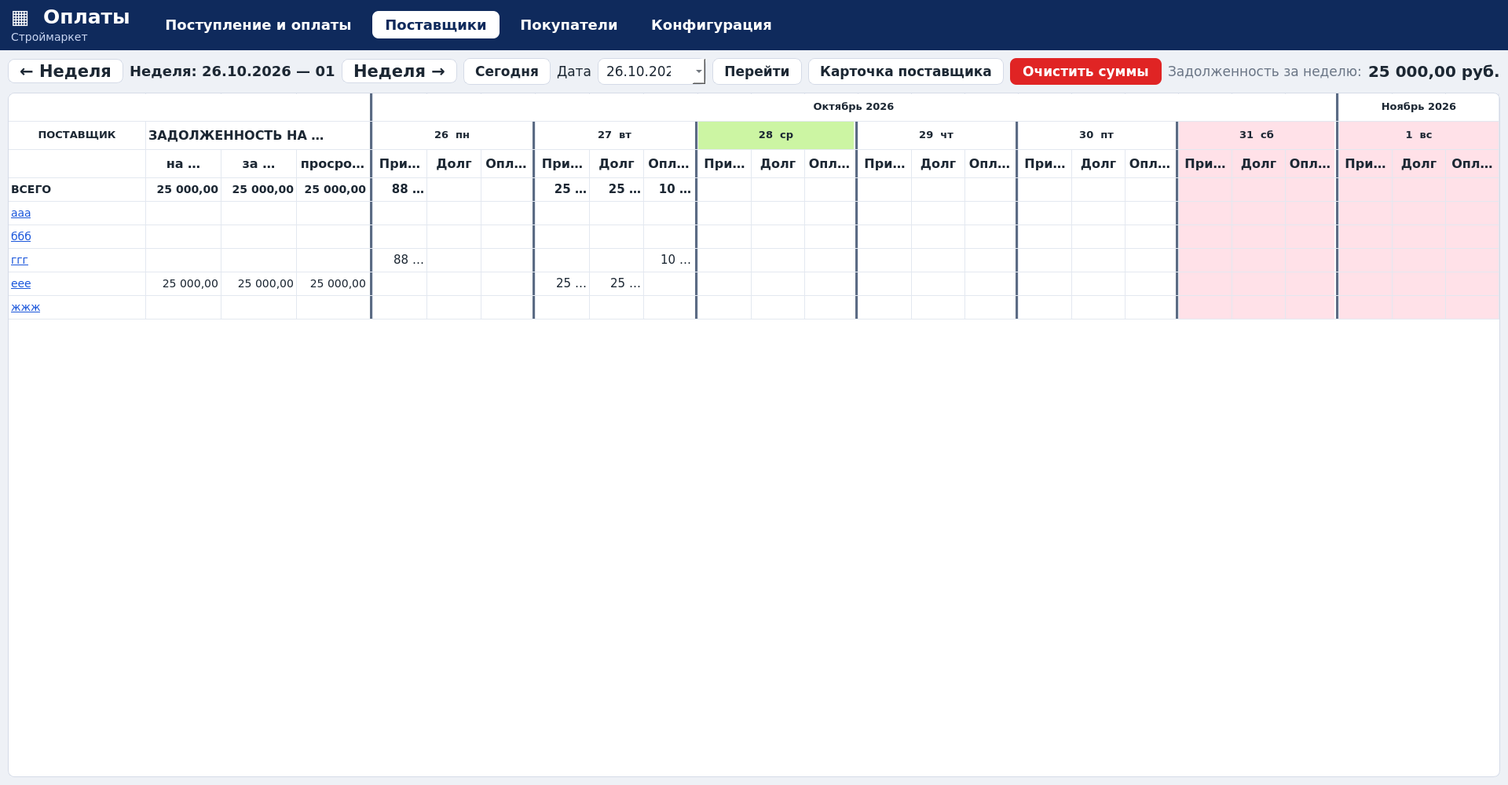
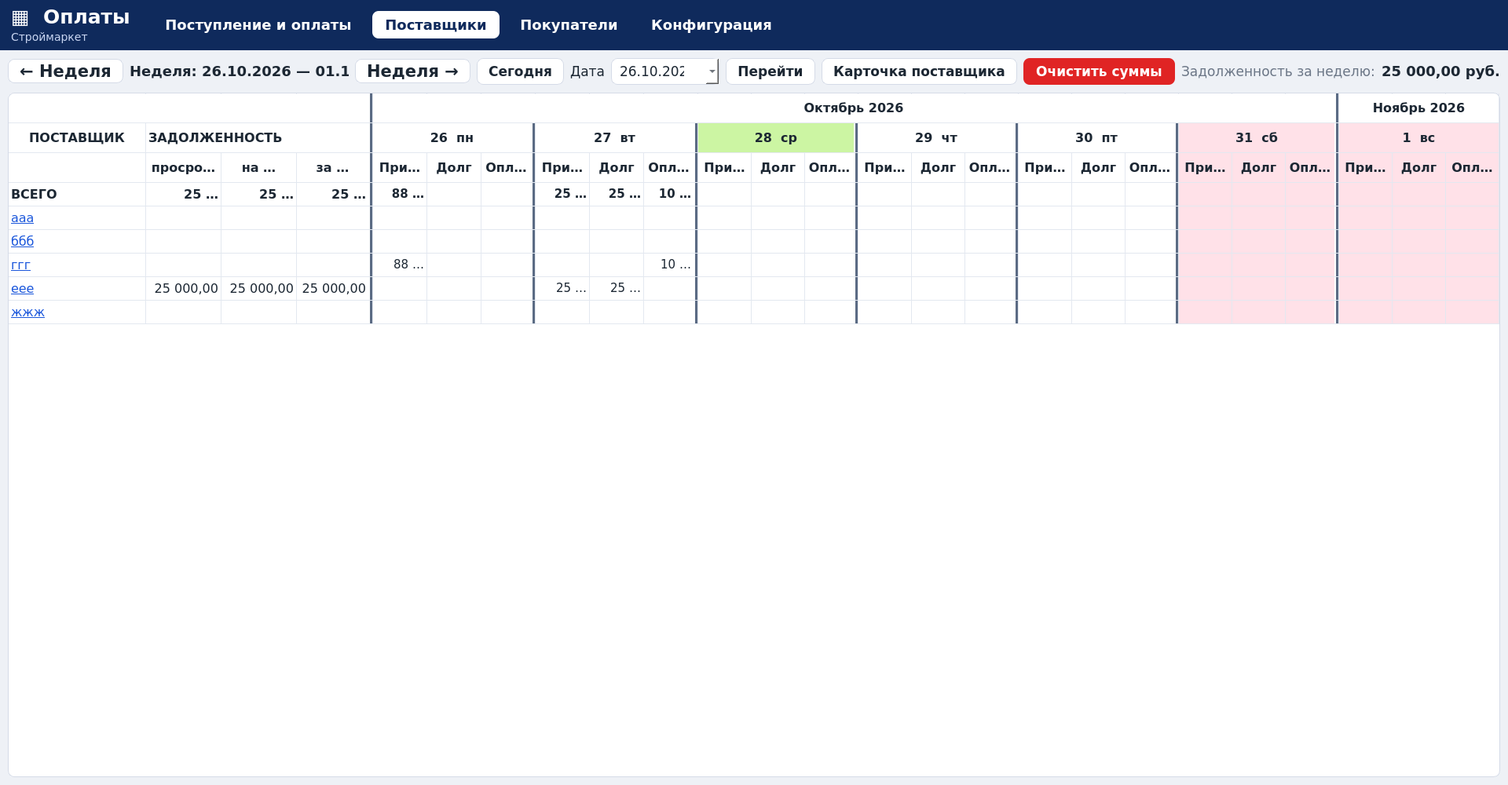
v0.16.0: единый шрифт в недельных таблицах, «просрочено» первым столбцом

diff --git a/src/oplata/views/week_view.py b/src/oplata/views/week_view.py
@@ -190,8 +190,8 @@ class WeekView(QWidget):
         # v0.15.0: у поставщиков две итоговые колонки — «ПРОСРОЧЕН.» и
         # «ЗАДОЛЖ.»; у покупателей столбца «просрочено» нет, остаётся
         # одна колонка — «ЗАДОЛЖ.» (подзаголовок «Всего»).
-        # v0.16.0: у поставщиков три итоговых столбца — «на сегодня»,
-        # «за неделю» и новый «просрочено» (срок оплаты уже прошёл).
+        # v0.16.0: у поставщиков три итоговых столбца — «просрочено»
+        # (срок оплаты уже прошёл), «на сегодня» и «за неделю».
         self.lead_columns = 3 if kind == "supplier" else 1
         self.column_count = 1 + self.lead_columns + 7 * self.columns_per_day
         self.separator_after_cols = {self.lead_columns} | {
@@ -223,11 +223,11 @@ class WeekView(QWidget):
         root.addLayout(self._build_toolbar())
 
         self.table = QTableWidget()
-        # В недельной таблице 20+ колонок: базовый шрифт интерфейса
-        # (+30% по запросу v0.12.0) съедает место у дней, поэтому для
-        # самой таблицы берём промежуточный размер — названия и шапка
-        # крупнее прежнего, а суммы остаются читаемыми.
-        self.table.setStyleSheet(f"font-size:{styles.fs(11)}px")
+        # v0.16.0: единый шрифт для всей недельной таблицы — шапка,
+        # названия и ячейки одного размера (был разнобой 13/14/16 px).
+        # Суммы в днях всё равно подгоняет _fit_amount_font по ширине
+        # колонки, чтобы «88 888,88» влезало целиком.
+        self.table.setStyleSheet(f"font-size:{styles.fs(12)}px")
         self.table.horizontalHeader().setVisible(False)
         self.table.verticalHeader().setVisible(False)
         week_delegate = DaySeparatorDelegate(
@@ -305,14 +305,14 @@ class WeekView(QWidget):
             debt_title.setObjectName("Muted")
             bar.addWidget(debt_title)
             self.right_value_label = QLabel(fmt_money(ZERO))
-            self.right_value_label.setStyleSheet(f"font-weight:800;font-size:{styles.fs(15)}px")
+            self.right_value_label.setStyleSheet(f"font-weight:800;font-size:{styles.fs(14)}px")
             bar.addWidget(self.right_value_label)
         else:
             count_title = QLabel("Покупателей:")
             count_title.setObjectName("Muted")
             bar.addWidget(count_title)
             self.right_value_label = QLabel("0")
-            self.right_value_label.setStyleSheet(f"font-weight:800;font-size:{styles.fs(15)}px")
+            self.right_value_label.setStyleSheet(f"font-weight:800;font-size:{styles.fs(14)}px")
             bar.addWidget(self.right_value_label)
         return bar
 
@@ -581,10 +581,11 @@ class WeekView(QWidget):
                 total_week += week
                 total_late += late
                 if self.kind == "supplier":
-                    self._set_cell_text(row, 1, _money_text(overdue))
-                    self._set_cell_text(row, 2, _money_text(week))
-                    # v0.16.0: третий столбец — просроченный платёж.
-                    self._set_cell_text(row, 3, _money_text(late))
+                    # v0.16.0: порядок столбцов — «просрочено»,
+                    # «на сегодня», «за неделю».
+                    self._set_cell_text(row, 1, _money_text(late))
+                    self._set_cell_text(row, 2, _money_text(overdue))
+                    self._set_cell_text(row, 3, _money_text(week))
                 else:
                     # Покупатели: «Всего» = Реализация − Оплата (v0.15.0).
                     partner = self._partners[r]
@@ -602,9 +603,9 @@ class WeekView(QWidget):
                             _money_text(due_map.get(day, ZERO)),
                         )
             if self.kind == "supplier":
-                self._set_cell_text(TOTAL_ROW, 1, _money_text(total_overdue))
-                self._set_cell_text(TOTAL_ROW, 2, _money_text(total_week))
-                self._set_cell_text(TOTAL_ROW, 3, _money_text(total_late))
+                self._set_cell_text(TOTAL_ROW, 1, _money_text(total_late))
+                self._set_cell_text(TOTAL_ROW, 2, _money_text(total_overdue))
+                self._set_cell_text(TOTAL_ROW, 3, _money_text(total_week))
             else:
                 self._set_cell_text(TOTAL_ROW, 1, _money_text(total_customer))
             for i, day in enumerate(self._days):
@@ -664,7 +665,7 @@ class WeekView(QWidget):
         table.setColumnCount(self.column_count)
 
         for row in range(HEADER_ROWS):
-            table.setRowHeight(row, 36)  # шапка выше — шрифт увеличен
+            table.setRowHeight(row, 38)  # три строки шапки под общий шрифт
 
         def put(row, col, text, *, bg=None, bold=False, center=True,
                 editable=False, color=None, underline=False, size=None):
@@ -690,7 +691,7 @@ class WeekView(QWidget):
 
         def money_cell(row, col, text, **kwargs) -> QTableWidgetItem:
             """Ячейка суммы: правый край + шрифт, который потом подгонит _fit_*."""
-            cell = put(row, col, text, size=styles.fs(11), **kwargs)
+            cell = put(row, col, text, size=styles.fs(12), **kwargs)
             cell.setTextAlignment(
                 Qt.AlignmentFlag.AlignRight | Qt.AlignmentFlag.AlignVCenter
             )
@@ -723,20 +724,21 @@ class WeekView(QWidget):
         col = 1 + lead
         for (_year, _month), group in groupby(days, key=lambda d: (d.year, d.month)):
             group_days = list(group)
-            put(0, col, month_title(group_days[0]), bold=True, size=13)
+            put(0, col, month_title(group_days[0]), bold=True,
+                size=styles.fs(12))
             table.setSpan(0, col, 1, len(group_days) * self.columns_per_day)
             col += len(group_days) * self.columns_per_day
 
         # Строка 1: дни недели (шрифт шапки увеличен по запросу пользователя)
         put(1, 0, "ПОСТАВЩИК" if self.kind == "supplier" else "ПОКУПАТЕЛЬ",
-            bold=True, size=13)
+            bold=True, size=styles.fs(12))
         # v0.14.0: «ПРОСРОЧЕН.» и «ЗАДОЛЖ.» — разные ячейки, без
         # объединения: каждая подпись стоит над своей колонкой.
         if self.kind == "supplier":
             # v0.16.0: три итоговые колонки объединены одной шапкой
-            # «ЗАДОЛЖЕННОСТЬ НА СЕГОДНЯ», а их смысловые подписи стоят
-            # строкой ниже («на сегодня», «за неделю», «просрочено»).
-            put(1, 1, "ЗАДОЛЖЕННОСТЬ НА СЕГОДНЯ", bold=True, size=styles.fs(12),
+            # «ЗАДОЛЖЕННОСТЬ», а их смысловые подписи стоят строкой
+            # ниже («просрочено», «на сегодня», «за неделю»).
+            put(1, 1, "ЗАДОЛЖЕННОСТЬ", bold=True, size=styles.fs(12),
                 center=False)
             table.setSpan(1, 1, 1, lead)
         else:
@@ -745,15 +747,15 @@ class WeekView(QWidget):
         for i, day in enumerate(days):
             c = self._day_column(i, 0)
             put(1, c, f"{day.day}  {WEEKDAYS_RU_SHORT[day.weekday()]}",
-                bg=day_header_bg(day), bold=True, size=13)
+                bg=day_header_bg(day), bold=True, size=styles.fs(12))
             table.setSpan(1, c, 1, self.columns_per_day)
 
         # Строка 2: подзаголовки; выходные розовые, сегодня здесь без заливки.
         put(2, 0, "")
         if self.kind == "supplier":
-            put(2, 1, "на сегодня", bold=True, size=styles.fs(12))
-            put(2, 2, "за неделю", bold=True, size=styles.fs(12))
-            put(2, 3, "просрочено", bold=True, size=styles.fs(12))
+            put(2, 1, "просрочено", bold=True, size=styles.fs(12))
+            put(2, 2, "на сегодня", bold=True, size=styles.fs(12))
+            put(2, 3, "за неделю", bold=True, size=styles.fs(12))
         else:
             # v0.15.0: у покупателей итоговая колонка одна — «Всего».
             put(2, 1, "Всего", bold=True, size=styles.fs(12))
@@ -792,14 +794,16 @@ class WeekView(QWidget):
                 for partner in partners
             ]
             total_customer_debt = sum(customer_debts, ZERO)
-        put(TOTAL_ROW, 0, "ВСЕГО", bold=True, center=False)
+        put(TOTAL_ROW, 0, "ВСЕГО", bold=True, center=False,
+            size=styles.fs(12))
         total_columns = (
-            ((1, total_overdue), (2, total_week), (3, total_late))
+            ((1, total_late), (2, total_overdue), (3, total_week))
             if self.kind == "supplier"
             else ((1, total_customer_debt),)
         )
         for col_idx, amount in total_columns:
-            cell = put(TOTAL_ROW, col_idx, _money_text(amount), bold=True, size=styles.fs(11))
+            cell = put(TOTAL_ROW, col_idx, _money_text(amount), bold=True,
+                       size=styles.fs(12))
             cell.setTextAlignment(
                 Qt.AlignmentFlag.AlignRight | Qt.AlignmentFlag.AlignVCenter
             )
@@ -823,7 +827,8 @@ class WeekView(QWidget):
             due_map = due_maps[r]
             overdue, week, late = debt_columns[r]
             name_item = put(row, 0, partner.name, center=False,
-                            color=styles.LINK_BLUE, underline=True)
+                            color=styles.LINK_BLUE, underline=True,
+                            size=styles.fs(12))
             name_item.setData(Qt.ItemDataRole.UserRole, partner.id)
             if self.kind == "supplier":
                 name_item.setToolTip(
@@ -838,12 +843,13 @@ class WeekView(QWidget):
             # Просрочено «на сегодня» / задолженность «за неделю» (calc);
             # у покупателей — одна колонка «Всего» = Реализация − Оплата.
             if self.kind == "supplier":
-                # v0.16.0: третий столбец — просроченный платёж.
-                lead_amounts = ((1, overdue), (2, week), (3, late))
+                # v0.16.0: «просрочено» стоит слева от «на сегодня».
+                lead_amounts = ((1, late), (2, overdue), (3, week))
             else:
                 lead_amounts = ((1, customer_debts[r]),)
             for col_idx, amount in lead_amounts:
-                cell = put(row, col_idx, _money_text(amount), size=styles.fs(11))
+                cell = put(row, col_idx, _money_text(amount),
+                           size=styles.fs(12))
                 cell.setTextAlignment(
                     Qt.AlignmentFlag.AlignRight | Qt.AlignmentFlag.AlignVCenter
                 )

diff --git a/tests/test_ui_smoke.py b/tests/test_ui_smoke.py
@@ -210,8 +210,8 @@ def test_delivery_dialog_saves_and_debt_shows_in_week(qt_app, store):
     table = window.suppliers_view.table
     ggg_row = 4 + [s.name for s in store.data.suppliers].index("ггг")
     assert table.item(ggg_row, _DAY(window.suppliers_view, 3, 1)).text() == "88 888,88"  # Долг чт
-    assert table.item(ggg_row, 2).text() == "88 888,88"  # задолженность за неделю
-    assert table.item(3, 2).text() == "88 888,88"  # ВСЕГО за неделю
+    assert table.item(ggg_row, 3).text() == "88 888,88"  # задолженность за неделю
+    assert table.item(3, 3).text() == "88 888,88"  # ВСЕГО за неделю
     assert window.suppliers_view.right_value_label.text() == "88 888,88 руб."
 
     # Оплата НЕ убирает сумму из «Долга» (требование пользователя
@@ -221,8 +221,8 @@ def test_delivery_dialog_saves_and_debt_shows_in_week(qt_app, store):
     payment_cell = table.item(ggg_row, _DAY(window.suppliers_view, 3, 2))  # Оплата чт 05.11
     payment_cell.setText("88 888,88")
     assert table.item(ggg_row, _DAY(window.suppliers_view, 3, 1)).text() == "88 888,88"  # Долг на месте
-    assert table.item(ggg_row, 2).text() == ""  # «за неделю» погашено
-    assert table.item(3, 2).text() == ""  # ВСЕГО за неделю
+    assert table.item(ggg_row, 3).text() == ""  # «за неделю» погашено
+    assert table.item(3, 3).text() == ""  # ВСЕГО за неделю
     assert window.suppliers_view.right_value_label.text() == "0,00 руб."
     window.close()
 
@@ -1272,19 +1272,20 @@ def test_arrows_are_next_to_today_and_bold_only_on_receipts(qt_app, store):
 
 
 def test_week_table_overdue_and_debt_headers_are_separate(qt_app, store):
-    """v0.16.0: три итоговые колонки — под одной шапкой «ЗАДОЛЖЕННОСТЬ НА СЕГОДНЯ»."""
+    """v0.16.0: три итоговые колонки — под одной шапкой «ЗАДОЛЖЕННОСТЬ»."""
     from oplata.app import MainWindow
 
     window = MainWindow(store)
     window.show()
     qt_app.processEvents()
     table = window.suppliers_view.table
-    assert table.item(1, 1).text() == "ЗАДОЛЖЕННОСТЬ НА СЕГОДНЯ"
+    assert table.item(1, 1).text() == "ЗАДОЛЖЕННОСТЬ"
     # Ячейки объединены: подписи столбцов стоят строкой ниже.
     assert table.columnSpan(1, 1) == 3
-    assert table.item(2, 1).text() == "на сегодня"
-    assert table.item(2, 2).text() == "за неделю"
-    assert table.item(2, 3).text() == "просрочено"
+    # v0.16.0: «просрочено» стоит слева от «на сегодня».
+    assert table.item(2, 1).text() == "просрочено"
+    assert table.item(2, 2).text() == "на сегодня"
+    assert table.item(2, 3).text() == "за неделю"
     window.close()
 
 
@@ -1597,22 +1598,22 @@ def test_supplier_overdue_carries_over_to_next_week(qt_app, store):
     table = view.table
 
     view.goto_date(date(2026, 10, 26))
-    assert table.item(1, 1).text() == "ЗАДОЛЖЕННОСТЬ НА СЕГОДНЯ"
-    assert table.item(2, 2).text() == "за неделю"
-    assert table.item(2, 3).text() == "просрочено"
-    # На текущей неделе: просрочено 700 (срок 27.10 <= сегодня),
-    # итог за неделю — 700.
+    assert table.item(1, 1).text() == "ЗАДОЛЖЕННОСТЬ"
+    assert table.item(2, 1).text() == "просрочено"
+    assert table.item(2, 2).text() == "на сегодня"
+    assert table.item(2, 3).text() == "за неделю"
+    # На текущей неделе: просрочено 700 (срок 27.10 < сегодня 28.10),
+    # «на сегодня» — 700, итог за неделю — 700.
     assert table.item(row, 1).text() == "700,00"
     assert table.item(row, 2).text() == "700,00"
+    assert table.item(row, 3).text() == "700,00"
 
     # Следующая неделя: долг 700 перенесён в «на сегодня», в «за неделю»
     # уже 900 (срок 05.11).
     view.goto_date(date(2026, 10, 26) + timedelta(days=7))
     assert table.item(row, 1).text() == "700,00"
-    assert table.item(row, 2).text() == "900,00"
-    window.close()
-    assert table.item(row, 1).text() == "700,00"
-    assert table.item(row, 2).text() == "900,00"
+    assert table.item(row, 2).text() == "700,00"
+    assert table.item(row, 3).text() == "900,00"
     window.close()
 
 
@@ -1642,7 +1643,8 @@ def test_supplier_payment_reduces_overdue_first_then_week(qt_app, store):
     view.goto_date(date(2026, 10, 26))
 
     assert table.item(row, 1).text() == "700,00"  # просрочено
-    assert table.item(row, 2).text() == "500,00"  # за неделю
+    assert table.item(row, 2).text() == "700,00"  # на сегодня
+    assert table.item(row, 3).text() == "500,00"  # за неделю
 
     # Оплата 900: сначала гасит просрочку 700, остаток 200 — неделю.
     set_daily_operation(
@@ -1650,7 +1652,8 @@ def test_supplier_payment_reduces_overdue_first_then_week(qt_app, store):
     )
     view.refresh()
     assert table.item(row, 1).text() == ""  # просрочка погашена
-    assert table.item(row, 2).text() == "300,00"  # 500 − 200
+    assert table.item(row, 2).text() == ""  # «на сегодня» тоже пусто
+    assert table.item(row, 3).text() == "300,00"  # 500 − 200
 
     # Недоплата: оплата 100 вместо 900 — остаток просрочки переносится.
     store.data.operations[:] = [
@@ -1661,12 +1664,16 @@ def test_supplier_payment_reduces_overdue_first_then_week(qt_app, store):
     )
     view.refresh()
     assert table.item(row, 1).text() == "600,00"  # 700 − 100
-    assert table.item(row, 2).text() == "500,00"  # оплата ушла в просрочку
+    assert table.item(row, 2).text() == "600,00"  # «на сегодня» = то же
+    assert table.item(row, 3).text() == "500,00"  # оплата ушла в просрочку
     # Следующая неделя: недоплаченный остаток 600 перенесён в «на
     # сегодня»; к нему добавился долг со сроком 29.10 — он тоже стал
     # просроченным (600 + 500 = 1 100).
     view.goto_date(date(2026, 10, 26) + timedelta(days=7))
-    assert table.item(row, 1).text() == "1 100,00"
+    # «Просрочено» — только истёкшие сроки: 600 со сроком 20.10.
+    assert table.item(row, 1).text() == "600,00"
+    # «На сегодня» на следующей неделе: 600 перенесено + 500 (срок 29.10).
+    assert table.item(row, 2).text() == "1 100,00"
     window.close()
 
 
@@ -1697,4 +1704,29 @@ def test_supplier_with_realization_never_shows_overdue(qt_app, store):
     view.refresh()
     assert table.item(row, 1).text() == ""  # в «на сегодня» не попадает никогда
     assert table.item(row, 2).text() == ""  # срок 05.10 вне недели 26.10–01.11
+    window.close()
+
+
+def test_week_table_fonts_are_uniform(qt_app, store):
+    """v0.16.0: в недельных таблицах один размер шрифта (был разнобой)."""
+    from oplata import styles
+    from oplata.app import MainWindow
+
+    window = MainWindow(store)
+    window.show()
+    qt_app.processEvents()
+
+    expected = styles.fs(12)
+    for view in (window.suppliers_view, window.customers_view):
+        table = view.table
+        sizes = set()
+        for row in range(table.rowCount()):
+            for col in range(table.columnCount()):
+                item = table.item(row, col)
+                if item is not None and item.text():
+                    sizes.add(item.font().pixelSize())
+        assert sizes == {expected}, f"разнобой шрифтов: {sorted(sizes)}"
+        # Заголовок недели и итог справа — одного размера.
+        assert view.week_label.font().pixelSize() == styles.fs(14)
+        assert view.right_value_label.font().pixelSize() == styles.fs(14)
     window.close()

diff --git a/CHANGELOG.md b/CHANGELOG.md
@@ -13,11 +13,18 @@
 - **Таблица поставщиков: новый столбец «просрочено»** — сумма долгов,
   срок оплаты которых уже истёк (с вычетом оплат). Три итоговые колонки
   («на сегодня», «за неделю», «просрочено») объединены общей шапкой
-  **«ЗАДОЛЖЕННОСТЬ НА СЕГОДНЯ»**.
+  **«ЗАДОЛЖЕННОСТЬ»**.
 - **Сводка**: строка «Просрочено» переименована в **«Задолженность на
   сегодня»** (данные — из столбца «на сегодня», как и раньше).
 - **Сводка: новая строка «Просроченный платеж»** — данные берутся из
   нового столбца «ПРОСРОЧЕНО» таблицы поставщиков.
+- **Шрифты недельных таблиц приведены к одному размеру** (поставщики и
+  покупатели): шапка, названия, подписи столбцов и ячейки —
+  `styles.fs(12)`; заголовок недели и итог справа — `styles.fs(14)`.
+  Раньше в одной таблице встречались 13/14/16 px. Суммы в днях
+  по-прежнему подгоняются по ширине колонки (`_fit_amount_font`).
+- **Столбец «просрочено» стоит первым**, слева от «на сегодня»; три
+  итоговые колонки объединены шапкой «ЗАДОЛЖЕННОСТЬ».
 - **Убраны артефакты за таблицами**: тулбар недельной таблицы снова на
   обычной горизонтальной раскладке (как в v0.15.0). Самописный перенос
   по строкам оставлял за таблицей «призраки» кнопок; кнопки
